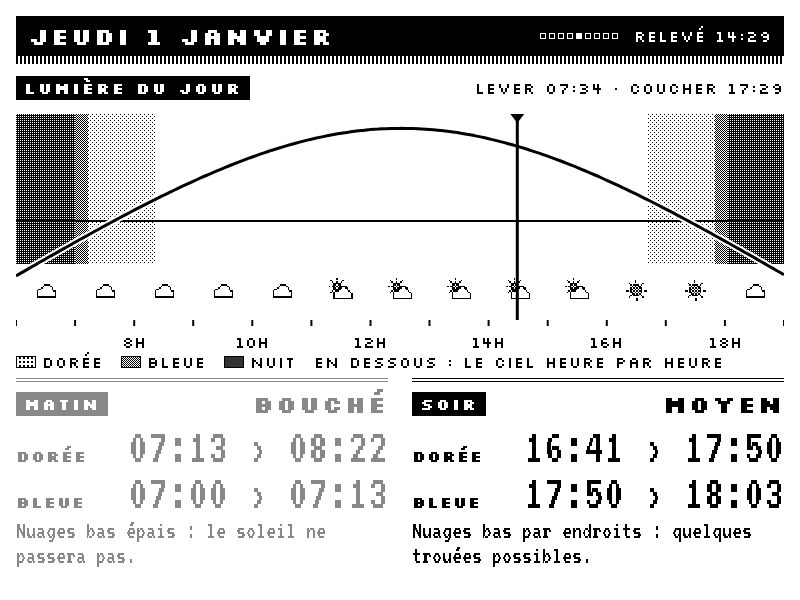
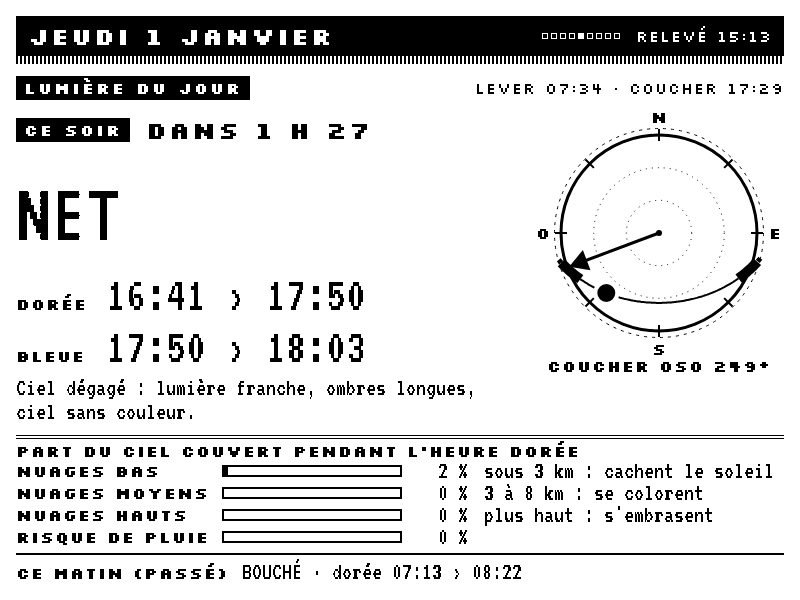
Écran Lumière v2 : prochain moment photo, boussole du soleil, nuages par étage expliqués

diff --git a/gabarit.html b/gabarit.html
@@ -142,23 +142,24 @@ img.t16 { display: block; image-rendering: pixelated; }
 .dessin.paysage .oeuvre { flex: none; gap: 4px; }
 .dessin.paysage .bas { flex: 1; display: grid; grid-template-columns: 1fr 16px 1fr; margin-top: 10px; min-height: 0; }
 .dessin.paysage .consigne { font-size: 30px; line-height: 27px; }
-/* lumière du jour */
+/* lumière du jour : rien de gris, aucune trame (elles gardent la trace de l'écran d'avant) */
 .lumiere { flex: 1; display: flex; flex-direction: column; }
-.frise { display: block; }
-.frise text.h { font-family: 'Silkscreen'; font-size: 16px; }
-.legendes { display: flex; gap: 18px; margin: 4px 0 8px; align-items: center; }
-.leg { display: flex; align-items: center; gap: 6px; }
-.leg i { width: 20px; height: 12px; border: 1px solid var(--encre); display: inline-block; }
-.m-clair { background-image: repeating-conic-gradient(var(--encre) 0 25%, transparent 0 100%); background-size: 4px 4px; }
-.m-moyen { background-image: repeating-conic-gradient(var(--encre) 0 25%, transparent 0 50%); background-size: 2px 2px; }
-.m-dense { background: #333; }
-.cartes { flex: 1; display: grid; grid-template-columns: 1fr 1fr; gap: 24px; }
-.carte { border-top: 4px double var(--encre); padding-top: 6px; }
-.carte .entete { margin-bottom: 2px; }
-.carte .ligne { display: flex; justify-content: space-between; align-items: baseline; height: 46px; white-space: nowrap; }
-.carte .verdict { white-space: nowrap; }
-.carte .detail { margin-top: 4px; }
-.carte.passe { opacity: 0.45; }
+.lumiere .haut { flex: 1; display: flex; gap: 20px; min-height: 0; }
+.lumiere .heros { flex: 1; display: flex; flex-direction: column; min-width: 0; }
+.lumiere .heros .entete { justify-content: flex-start; gap: 16px; white-space: nowrap; }
+.lumiere .grand { font-size: 88px; line-height: 88px; margin: 2px 0 0; white-space: nowrap; }
+.lumiere .ligne { display: flex; align-items: baseline; gap: 14px; height: 40px; white-space: nowrap; }
+.lumiere .ligne .s16 { width: 76px; }
+.lumiere .phrase { margin-top: 2px; line-height: 24px; }
+.lumiere .rose { width: 250px; flex: none; display: flex; flex-direction: column; align-items: center; margin-top: -6px; }
+.lumiere .rose .cap { font-family: 'Silkscreen'; font-weight: 700; font-size: 16px; }
+.lumiere .nuages { border-top: 4px double var(--encre); padding-top: 4px; margin-top: 2px; }
+.lumiere .jauges { display: grid; grid-template-columns: 196px 180px 56px 1fr; gap: 2px 10px; align-items: center; margin-top: 2px; white-space: nowrap; line-height: 20px; }
+.lumiere .jauges .pc { text-align: right; }
+.lumiere .jauges .role { padding-left: 6px; }
+.lumiere .barre-pleine { flex: 1; height: 12px; border: 2px solid var(--encre); }
+.lumiere .barre-pleine i { display: block; height: 100%; background: var(--encre); }
+.lumiere .autre { display: flex; gap: 14px; align-items: baseline; border-top: 2px solid var(--encre); padding-top: 4px; margin-top: 6px; }
 /* livre à lire */
 .livre { flex: 1; display: grid; grid-template-columns: 300px 16px 1fr; min-height: 0; }
 .livre .couv { display: flex; align-items: center; justify-content: center; }

diff --git a/dashboard.py b/dashboard.py
@@ -791,8 +791,9 @@ def oeuvre(maintenant, famille, sortie):
     return {"erreur": f"Dessin du jour : recherche en cours ({essais['vus']} essayés)"}
 
 
-def soleil(t):
-    """Hauteur du soleil en degrés au-dessus de l'horizon (formules simplifiées de la NOAA, sans réfraction)."""
+def position_soleil(t):
+    """(hauteur, azimut) du soleil en degrés : hauteur au-dessus de l'horizon, azimut compté du nord vers l'est
+    (formules simplifiées de la NOAA, sans réfraction)."""
     n = t.timestamp() / 86400 + 2440587.5 - 2451545.0
     g = math.radians((357.528 + 0.9856003 * n) % 360)
     lam = math.radians((280.460 + 0.9856474 * n) % 360 + 1.915 * math.sin(g) + 0.020 * math.sin(2 * g))
@@ -801,7 +802,19 @@ def soleil(t):
     ra = math.atan2(math.cos(eps) * math.sin(lam), math.cos(lam))
     ha = math.radians((280.46061837 + 360.98564736629 * n) % 360 + LIEU["lon"]) - ra
     la = math.radians(LIEU["lat"])
-    return math.degrees(math.asin(math.sin(la) * math.sin(dec) + math.cos(la) * math.cos(dec) * math.cos(ha)))
+    h = math.asin(math.sin(la) * math.sin(dec) + math.cos(la) * math.cos(dec) * math.cos(ha))
+    az = math.atan2(math.sin(ha), math.cos(ha) * math.sin(la) - math.tan(dec) * math.cos(la))
+    return math.degrees(h), (math.degrees(az) + 180) % 360
+
+
+def soleil(t):
+    """Hauteur du soleil en degrés au-dessus de l'horizon."""
+    return position_soleil(t)[0]
+
+
+def cap(az):
+    """Direction en clair d'un azimut (16 points, en français)."""
+    return ["N", "NNE", "NE", "ENE", "E", "ESE", "SE", "SSE", "S", "SSO", "SO", "OSO", "O", "ONO", "NO", "NNO"][round(az / 22.5) % 16]
 
 
 def course_du_soleil(maintenant):
@@ -834,25 +847,93 @@ def nuages(maintenant):
                 r["precipitation_probability"][i] or 0, r["weather_code"][i], r["is_day"][i]] for i, t in enumerate(r["time"])}
 
 
-def verdict_ciel(t, ciel):
-    """Ce que le ciel promet pour la photo : les nuages bas bouchent, les nuages hauts ou moyens prennent la couleur
-    du soleil rasant si l'horizon est dégagé."""
-    cles = [(t.replace(minute=0) + dt.timedelta(hours=k)).strftime("%Y-%m-%dT%H:00") for k in (0, 1)]
-    vals = [ciel[c] for c in cles if c in ciel] if isinstance(ciel, dict) and "erreur" not in ciel else []
-    if not vals:
+def ciel_pendant(debut, fin, ciel):
+    """Moyenne (nuages bas, moyens, hauts, risque de pluie) des heures qui touchent [debut, fin] ; None sans prévision."""
+    if not (debut and fin) or not isinstance(ciel, dict) or "erreur" in ciel:
+        return None
+    vals, h = [], debut.replace(minute=0, second=0, microsecond=0)
+    while h <= fin:
+        if h.strftime("%Y-%m-%dT%H:00") in ciel:
+            vals.append(ciel[h.strftime("%Y-%m-%dT%H:00")])
+        h += dt.timedelta(hours=1)
+    return tuple(round(sum(v[i] for v in vals) / len(vals)) for i in range(4)) if vals else None
+
+
+def verdict_ciel(m):
+    """Ce que le ciel promet pour la photo, d'après ciel_pendant() : les nuages bas bouchent, les nuages hauts ou
+    moyens prennent la couleur du soleil rasant si l'horizon est dégagé."""
+    if m is None:
         return "?", "Pas de prévision."
-    bas, moy, haut, pluie = (round(sum(v[i] for v in vals) / len(vals)) for i in range(4))
+    bas, moy, haut, pluie = m
     if pluie >= 50:
         return "PLUIE", "Pluie probable : lumière grise."
     if bas >= 70:
         return "BOUCHÉ", "Nuages bas épais : le soleil ne passera pas."
     if bas < 30 and 30 <= max(moy, haut) <= 80 and pluie < 30:
-        return "PROMETTEUR", "Horizon dégagé, nuages en altitude : ils peuvent prendre la couleur."
+        return "PROMETTEUR", "Horizon dégagé, nuages en altitude : ils peuvent s'embraser."
     if max(bas, moy, haut) < 20:
-        return "NET", "Ciel dégagé : belle lumière, ciel sans couleur."
+        return "NET", "Ciel dégagé : lumière franche, ombres longues, ciel sans couleur."
     if bas >= 30:
         return "MOYEN", "Nuages bas par endroits : quelques trouées possibles."
-    return "MOYEN", "Beaucoup de nuages en altitude : lumière douce, peu de couleur."
+    return "MOYEN", "Voile en altitude : lumière douce, peu de couleur."
+
+
+def fenetres(s):
+    """Les deux moments photo d'une journée : leurs heures bleue et dorée, dans l'ordre où elles arrivent."""
+    return {"matin": {"debut": s["aube_bleue"], "fin": s["fin_or_matin"], "soleil": s["lever"], "mot": "LEVER",
+                      "doree": (s["aube_or"], s["fin_or_matin"]),
+                      "plages": [("BLEUE", s["aube_bleue"], s["aube_or"]), ("DORÉE", s["aube_or"], s["fin_or_matin"])]},
+            "soir": {"debut": s["debut_or_soir"], "fin": s["fin_bleue"], "soleil": s["coucher"], "mot": "COUCHER",
+                     "doree": (s["debut_or_soir"], s["fin_or_soir"]),
+                     "plages": [("DORÉE", s["debut_or_soir"], s["fin_or_soir"]), ("BLEUE", s["fin_or_soir"], s["fin_bleue"])]}}
+
+
+def boussole(maintenant, s, f):
+    """La course du soleil vue du dessus (nord en haut, est à droite) : horizon, anneau du crépuscule jusqu'à -6°,
+    heure dorée en trait épais, heure bleue en tirets, soleil du moment, flèche vers le lever ou le coucher de `f`."""
+    c, R = 125, 98
+    jour = s["aube_bleue"].replace(hour=0, minute=0, second=0, microsecond=0)
+
+    def point(e, az, r=None):
+        r = R * (90 - e) / 90 if r is None else r
+        return c + r * math.sin(math.radians(az)), c - r * math.cos(math.radians(az))
+    svg = [f'<svg width="{2 * c}" height="{2 * c}" viewBox="0 0 {2 * c} {2 * c}" xmlns="http://www.w3.org/2000/svg">',
+           f'<circle cx="{c}" cy="{c}" r="{R * 96 / 90:.1f}" fill="none" stroke="#000" stroke-width="1" stroke-dasharray="3 5"/>',
+           f'<circle cx="{c}" cy="{c}" r="{R}" fill="none" stroke="#000" stroke-width="3"/>']
+    for e in (30, 60):
+        svg.append(f'<circle cx="{c}" cy="{c}" r="{R * (90 - e) / 90:.1f}" fill="none" stroke="#000" stroke-width="1" stroke-dasharray="1 5"/>')
+    for az, nom in ((0, "N"), (90, "E"), (180, "S"), (270, "O")):
+        x, y = point(0, az, R + 18)
+        svg.append(f'<text x="{x:.0f}" y="{y + 6:.0f}" text-anchor="middle" class="cap">{nom}</text>')
+    for az in range(0, 360, 45):
+        (x0, y0), (x1, y1) = point(0, az, R - 6), point(0, az, R + 6)
+        svg.append(f'<line x1="{x0:.1f}" y1="{y0:.1f}" x2="{x1:.1f}" y2="{y1:.1f}" stroke="#000" stroke-width="2"/>')
+    traits, cur = [], None
+    for m in range(0, 1441, 3):
+        e, az = position_soleil(jour + dt.timedelta(minutes=m))
+        classe = None if e < -6 else "bleue" if e < -4 else "or" if e < 6 else "jour"
+        if classe != cur:
+            if cur and len(traits[-1][1]) == 1:
+                traits.pop()
+            if classe:
+                traits.append((classe, [point(e, az)] if not cur else [traits[-1][1][-1], point(e, az)] if cur else []))
+            cur = classe
+        elif classe:
+            traits[-1][1].append(point(e, az))
+    style = {"jour": 'stroke-width="2"', "or": 'stroke-width="10"', "bleue": 'stroke-width="5" stroke-dasharray="4 4"'}
+    for classe, pts in traits:
+        svg.append(f'<polyline points="{" ".join(f"{x:.1f},{y:.1f}" for x, y in pts)}" fill="none" stroke="#000" {style[classe]}/>')
+    _, az = position_soleil(f["soleil"])
+    x, y = point(0, az, R - 14)
+    svg.append(f'<line x1="{c}" y1="{c}" x2="{x:.1f}" y2="{y:.1f}" stroke="#000" stroke-width="3"/>')
+    pointe = [point(0, az, R - 2), point(0, az - 8, R - 20), point(0, az + 8, R - 20)]
+    svg.append(f'<polygon points="{" ".join(f"{x:.1f},{y:.1f}" for x, y in pointe)}" fill="#000"/>')
+    e, az_m = position_soleil(maintenant)
+    if e >= -6 and maintenant.date() == jour.date():
+        x, y = point(e, az_m)
+        svg.append(f'<circle cx="{x:.1f}" cy="{y:.1f}" r="11" fill="#000" stroke="#fff" stroke-width="4"/>')
+    svg.append(f'<circle cx="{c}" cy="{c}" r="3" fill="#000"/></svg>')
+    return "".join(svg), az
 
 
 def heure_photo(maintenant, s):
@@ -1074,73 +1155,47 @@ def ecran_dessin(maintenant, c, k, o, sortie):
 
 
 def ecran_lumiere(maintenant, s, ciel):
-    jour = maintenant.replace(hour=0, minute=0, second=0, microsecond=0)
     if not (s["aube_bleue"] and s["fin_bleue"]):
         return entete("LUMIÈRE DU JOUR") + "<p>Pas d'heure bleue aujourd'hui.</p>"
-    debut = (s["aube_bleue"] - dt.timedelta(minutes=50)).replace(minute=0)
-    fin = (s["fin_bleue"] + dt.timedelta(minutes=70)).replace(minute=0)
-    W, H, haut = 768, 236, 150   # largeur, hauteur du dessin, hauteur de la zone du soleil
-    t0, t1 = (debut - jour).total_seconds() / 60, (fin - jour).total_seconds() / 60
-    x = lambda m: (m - t0) / (t1 - t0) * W  # noqa: E731
-    y = lambda e: haut - (e + 12) / (max(s["courbe"]) + 16) * haut  # noqa: E731
-    mn = lambda t: (t - jour).total_seconds() / 60  # noqa: E731
-    bandes, cur, dep = [], None, int(t0)
-    for m in range(int(t0), int(t1) + 1):
-        e = s["courbe"][m]
-        c = "nuit" if e < -6 else "bleue" if e < -4 else "or" if e < 6 else "jour"
-        if c != cur:
-            if cur:
-                bandes.append((cur, dep, m))
-            cur, dep = c, m
-    bandes.append((cur, dep, int(t1)))
-    motif = {"nuit": "url(#dense)", "bleue": "url(#moyen)", "or": "url(#clair)"}
-    svg = [f'<svg class="frise" width="{W}" height="{H}" viewBox="0 0 {W} {H}" xmlns="http://www.w3.org/2000/svg">',
-           '<defs><pattern id="dense" width="2" height="2" patternUnits="userSpaceOnUse"><rect width="2" height="2"/>'
-           '<rect width="1" height="1" fill="#fff"/></pattern><pattern id="moyen" width="2" height="2" '
-           'patternUnits="userSpaceOnUse"><rect width="1" height="1"/><rect x="1" y="1" width="1" height="1"/></pattern>'
-           '<pattern id="clair" width="4" height="4" patternUnits="userSpaceOnUse"><rect width="1" height="1"/>'
-           '<rect x="2" y="2" width="1" height="1"/></pattern></defs>']
-    for c, a, b in bandes:
-        if c in motif:
-            svg.append(f'<rect x="{x(a):.1f}" y="0" width="{x(b) - x(a):.1f}" height="{haut}" fill="{motif[c]}"/>')
-    svg.append(f'<line x1="0" x2="{W}" y1="{y(0):.1f}" y2="{y(0):.1f}" stroke="#000" stroke-width="2"/>')
-    pts = " ".join(f"{x(m):.1f},{y(s['courbe'][m]):.1f}" for m in range(int(t0), int(t1) + 1, 4))
-    svg.append(f'<polyline points="{pts}" fill="none" stroke="#fff" stroke-width="7"/>'
-               f'<polyline points="{pts}" fill="none" stroke="#000" stroke-width="3"/>')
-    if isinstance(ciel, dict) and "erreur" not in ciel:  # le ciel heure par heure, l'icône météo de chaque heure
-        for cle, v in ciel.items():
-            if cle.startswith(f"{maintenant:%Y-%m-%d}"):
-                xc = x(mn(dt.datetime.fromisoformat(cle).replace(tzinfo=PARIS)) + 30)
-                if 12 <= xc <= W - 12:
-                    svg.append(icone(nom_icone(v[4], v[5]), 24).replace("<svg ", f'<svg x="{xc - 12:.1f}" y="{haut + 14}" ', 1))
-    for hr in range(debut.hour, fin.hour + 1):
-        xx = x(hr * 60)
-        svg.append(f'<line x1="{xx:.1f}" x2="{xx:.1f}" y1="{haut + 56}" y2="{haut + 62}" stroke="#000" stroke-width="2"/>')
-        if hr % 2 == 0 and 16 < xx < W - 16:
-            svg.append(f'<text x="{xx:.1f}" y="{H - 2}" text-anchor="middle" class="h">{hr}H</text>')
-    if debut <= maintenant <= fin:
-        xm = x(mn(maintenant))
-        svg.append(f'<line x1="{xm:.1f}" x2="{xm:.1f}" y1="0" y2="{haut + 56}" stroke="#000" stroke-width="3"/>'
-                   f'<polygon points="{xm - 7:.1f},0 {xm + 7:.1f},0 {xm:.1f},9" fill="#000"/>')
-    svg.append("</svg>")
     hm = lambda t: t.strftime("%H:%M") if t else "–"  # noqa: E731
-
-    def carte(titre, ors, bleue, quand, passe):
-        v, pourquoi = verdict_ciel(quand, ciel)
-        return (f'<div class="carte{" passe" if passe else ""}"><div class="entete"><span class="tag">{titre}</span>'
-                f'<span class="s24 gras verdict">{v}</span></div>'
-                f'<div class="ligne"><span class="s16 gras">DORÉE</span><span class="v50">{ors}</span></div>'
-                f'<div class="ligne"><span class="s16 gras">BLEUE</span><span class="v50">{bleue}</span></div>'
-                f'<div class="detail">{esc(pourquoi)}</div></div>')
-    matin = carte("MATIN", f'{hm(s["aube_or"])} › {hm(s["fin_or_matin"])}', f'{hm(s["aube_bleue"])} › {hm(s["aube_or"])}',
-                  s["lever"], s["fin_or_matin"] and maintenant > s["fin_or_matin"])
-    soir = carte("SOIR", f'{hm(s["debut_or_soir"])} › {hm(s["fin_or_soir"])}', f'{hm(s["fin_or_soir"])} › {hm(s["fin_bleue"])}',
-                 s["coucher"], maintenant > s["fin_bleue"])
-    legende = ('<span class="leg"><i class="m-clair"></i>DORÉE</span><span class="leg"><i class="m-moyen"></i>BLEUE</span>'
-               '<span class="leg"><i class="m-dense"></i>NUIT</span><span class="leg">EN DESSOUS : LE CIEL HEURE PAR HEURE</span>')
+    f = fenetres(s)
+    if maintenant < f["matin"]["fin"]:
+        jour, quand, principal, autre, autre_quand, autre_passe = s, "CE MATIN", f["matin"], f["soir"], "CE SOIR", False
+    elif maintenant < f["soir"]["fin"]:
+        jour, quand, principal, autre, autre_quand, autre_passe = s, "CE SOIR", f["soir"], f["matin"], "CE MATIN", True
+    else:  # la journée est finie : le prochain moment est demain matin
+        jour = course_du_soleil(maintenant + dt.timedelta(days=1))
+        quand, principal, autre, autre_quand, autre_passe = "DEMAIN MATIN", fenetres(jour)["matin"], f["soir"], "CE SOIR", True
+    if maintenant < principal["debut"]:
+        reste = int((principal["debut"] - maintenant).total_seconds() // 60)
+        compte = f"DANS {reste // 60} H {reste % 60:02d}" if reste >= 60 else f"DANS {reste} MIN"
+    else:
+        compte = "MAINTENANT"
+    m = ciel_pendant(*principal["doree"], ciel)
+    verdict, phrase = verdict_ciel(m)
+    plages = "".join(f'<div class="ligne"><span class="s16 gras">{nom}</span><span class="v50">{hm(a)} › {hm(b)}</span></div>'
+                     for nom, a, b in principal["plages"])
+    dessin, az = boussole(maintenant, jour, principal)
+    heros = (f'<div class="heros"><div class="entete"><span class="tag">{quand}</span><span class="s24 gras">{compte}</span></div>'
+             f'<div class="grand">{verdict}</div>{plages}<div class="phrase">{esc(phrase)}</div></div>')
+    rose = (f'<div class="rose">{dessin}<div class="s16 gras">{principal["mot"]} {cap(az)} {az:.0f}°</div></div>')
+    if m:
+        # étages d'Open-Meteo : bas jusqu'à 3 km, moyens de 3 à 8 km, hauts au-dessus
+        sens = (("NUAGES BAS", "sous 3 km : cachent le soleil"), ("NUAGES MOYENS", "3 à 8 km : se colorent"),
+                ("NUAGES HAUTS", "plus haut : s'embrasent"), ("RISQUE DE PLUIE", ""))
+        jauges = "".join(f'<span class="s16 gras">{nom}</span><div class="barre-pleine"><i style="width:{v}%"></i></div>'
+                         f'<span class="pc">{v} %</span><span class="role">{role}</span>' for (nom, role), v in zip(sens, m))
+    else:
+        jauges = '<span>pas de prévision des nuages</span>'
+    nuages = (f'<div class="nuages"><div class="s16 gras">PART DU CIEL COUVERT PENDANT L\'HEURE DORÉE</div>'
+              f'<div class="jauges">{jauges}</div></div>')
+    v_autre, _ = verdict_ciel(ciel_pendant(*autre["doree"], ciel))
+    d_or = autre["doree"]
+    ligne_autre = (f'<div class="autre"><span class="s16 gras">{autre_quand}{" (PASSÉ)" if autre_passe else ""}</span>'
+                   f'<span>{v_autre} · dorée {hm(d_or[0])} › {hm(d_or[1])}</span></div>')
     droite = f'<span class="s16">LEVER {hm(s["lever"])} · COUCHER {hm(s["coucher"])}</span>'
-    return (f'<section class="lumiere">{entete("LUMIÈRE DU JOUR", droite)}{"".join(svg)}'
-            f'<div class="legendes s16">{legende}</div><div class="cartes">{matin}{soir}</div></section>')
+    return (f'<section class="lumiere">{entete("LUMIÈRE DU JOUR", droite)}<div class="haut">{heros}{rose}</div>'
+            f'{nuages}{ligne_autre}</section>')
 
 
 def ecran_livre(maintenant, b, sortie):

diff --git a/README.md b/README.md
@@ -31,7 +31,7 @@ Les écrans arrivent dans `demo/` : `apercu-<écran>.png` (paysage, pour l'œil)
 | Courrier | mails non lus que Gmail marque « Important », écran sauté s'il n'y en a pas | Gmail, lecture seule | idem |
 | Abonnés | abonnés par réseau, gain par jour sur 30 jours | une table [n8n](https://n8n.io/) remplie chaque jour par un workflow | `N8N_API_KEY`, facultatif |
 | Mes stations | 3 prochains départs, direction, premier et dernier départ du jour, premier et dernier retour | ilévia (Lille) : temps réel et GTFS | rien |
-| Lumière du jour | heure bleue, heure dorée, coucher « prometteur » ou « bouché » d'après les nuages par étage | calcul local (formules NOAA) et Open-Meteo | rien |
+| Lumière du jour | prochain moment photo (ce matin, ce soir ou demain matin) et son verdict (net, prometteur, moyen, bouché, pluie), heures bleue et dorée, boussole de la course du soleil, part du ciel couvert par étage de nuages pendant l'heure dorée, chaque étage expliqué à l'écran | calcul local (formules NOAA) et Open-Meteo | rien |
 | Dessin du jour | un concept, une consigne de 10 à 30 min, un dessin ancien du domaine public | [`consignes-dessin.json`](consignes-dessin.json), [Cleveland Museum of Art](https://openaccess-api.clevelandart.org/) (CC0) | rien (Notion, facultatif) |
 | Livre à lire | un livre de sa bibliothèque pas encore lu, couverture tramée | une base Notion | `NOTION_TOKEN`, facultatif |
 | Mot du jour | mot, prononciation, définitions, exemple, étymologie | [Wiktionnaire](https://fr.wiktionary.org/) | rien |
